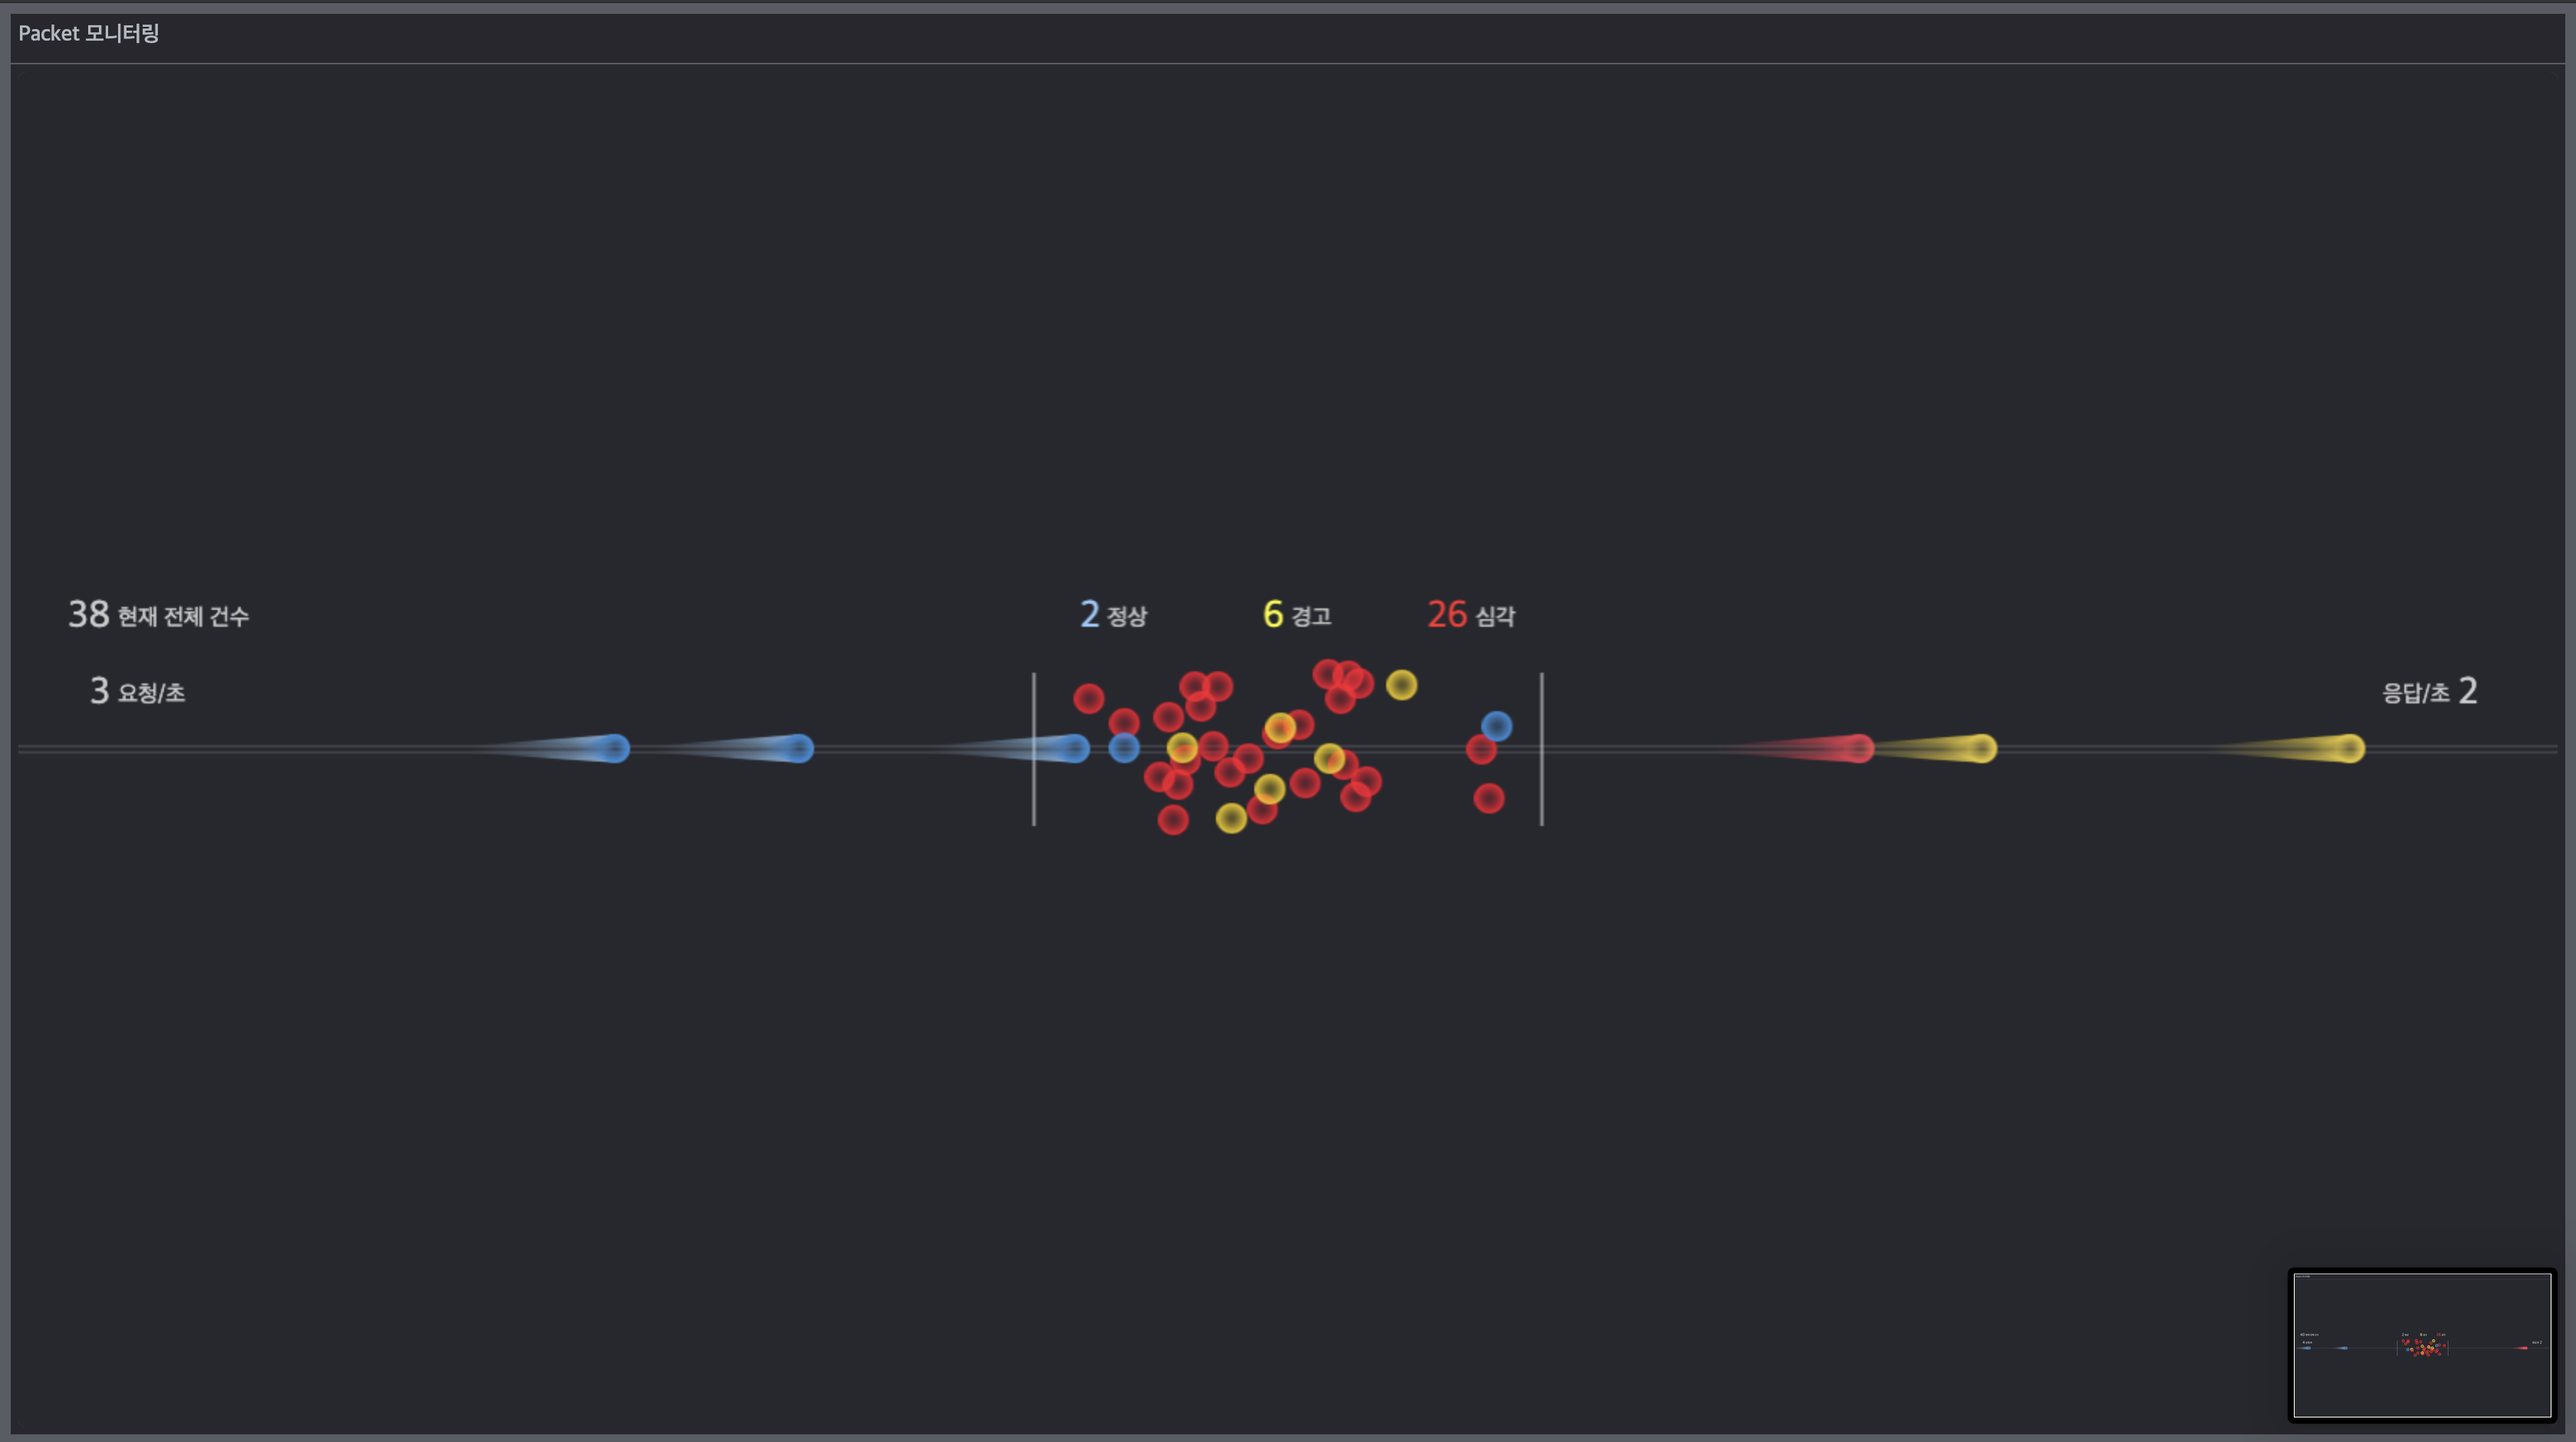
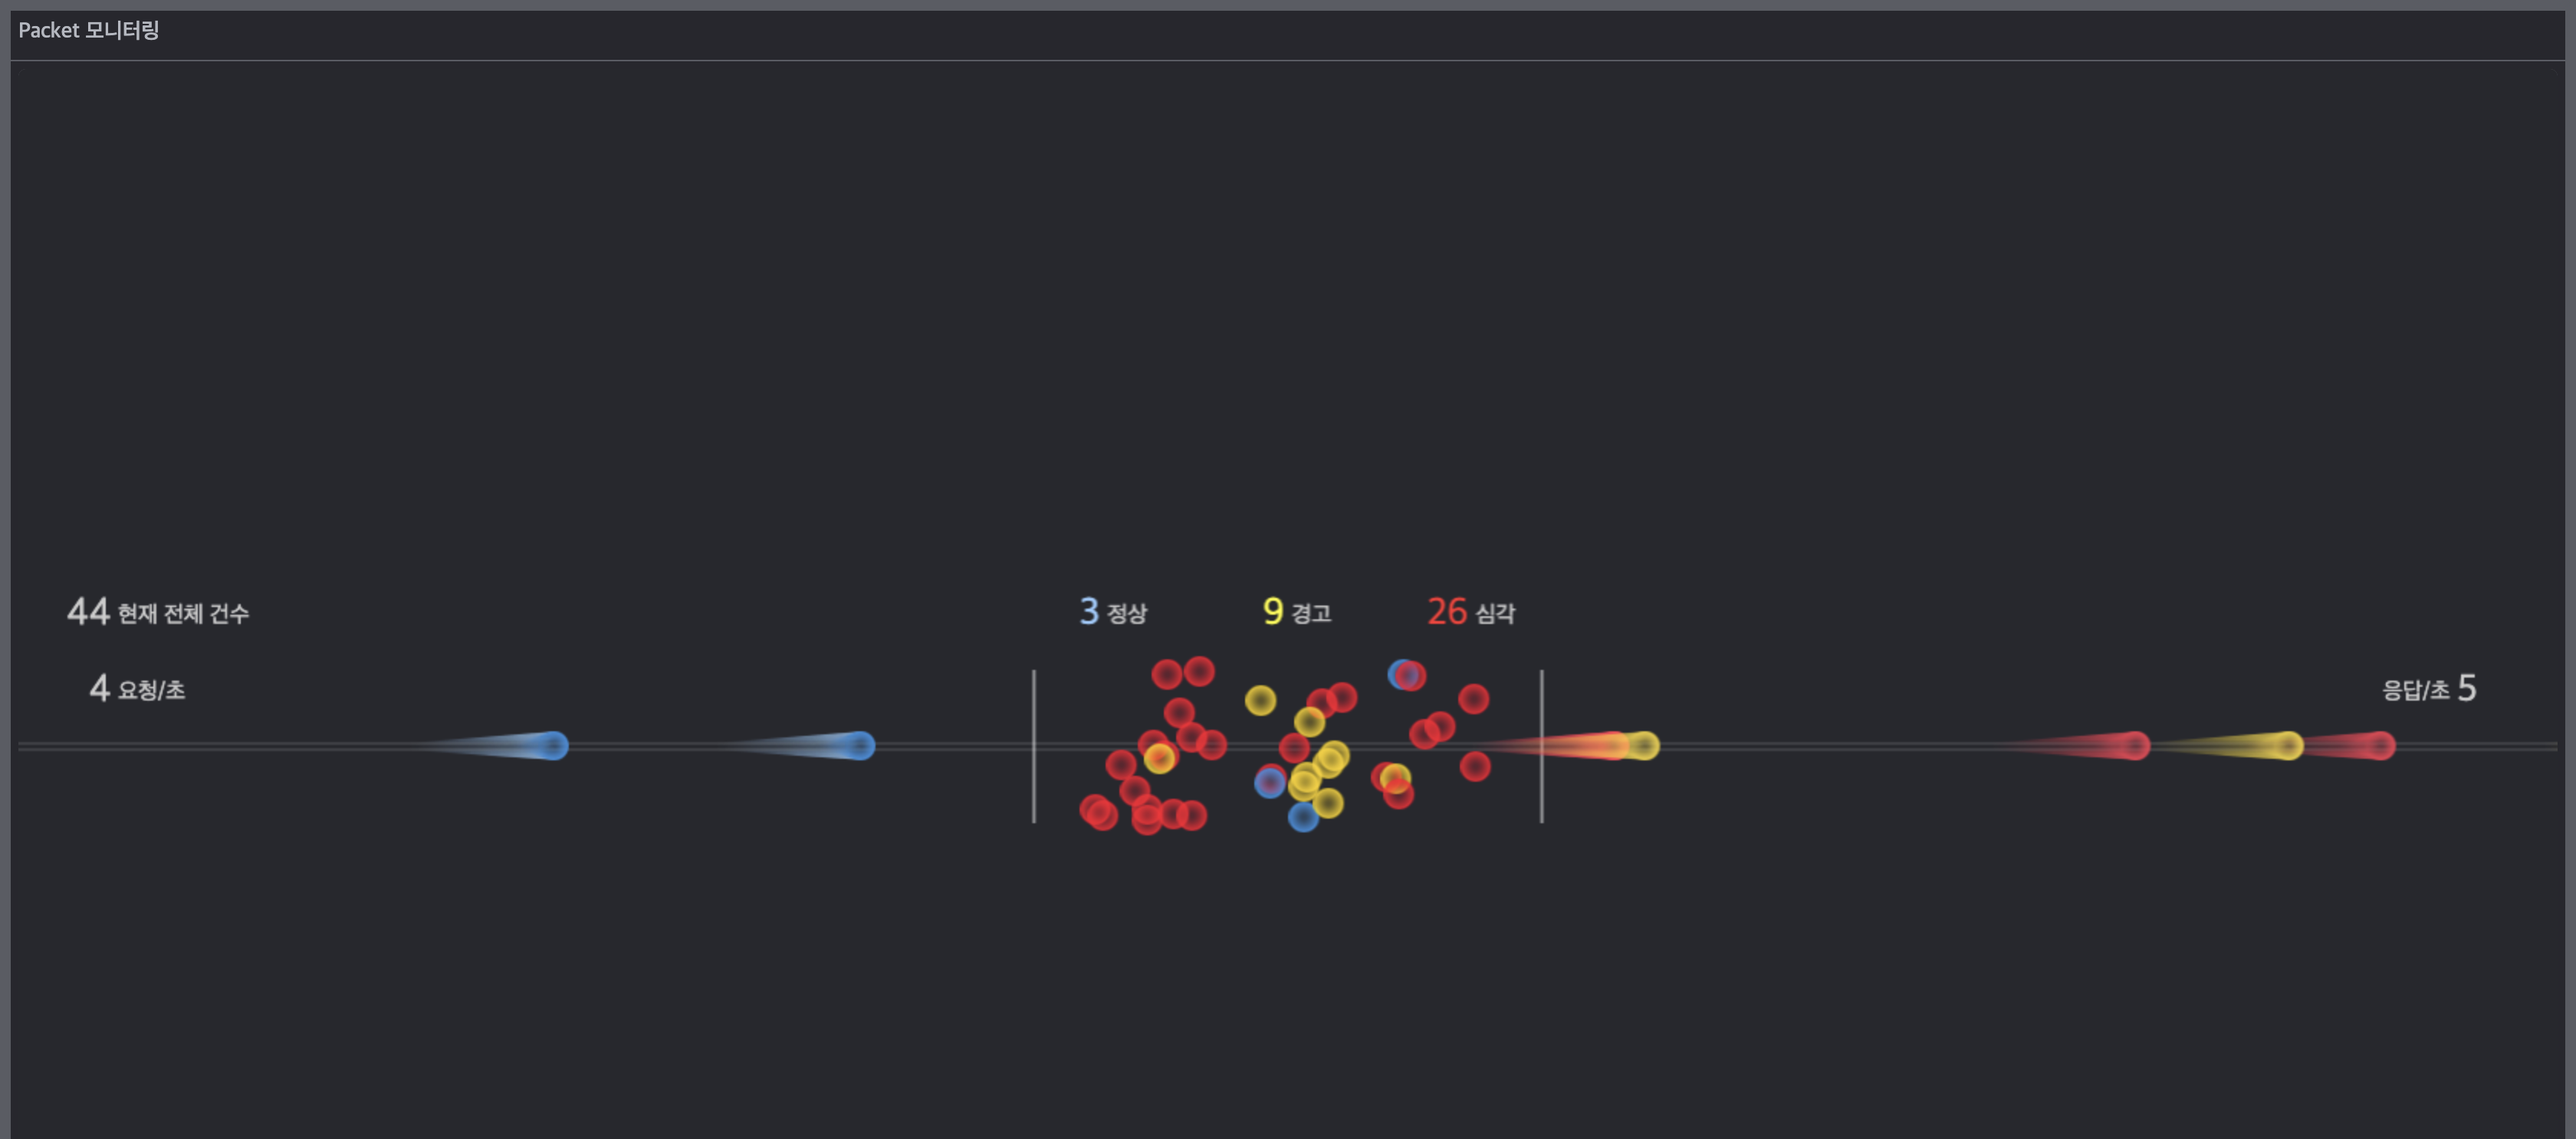
feat: add readme file and change packet view image

diff --git a/README.md b/README.md
@@ -1,0 +1,18 @@
+# __Packet 모니터링 화면__
+## __Description__
+
+- Packet 전송 관련 화면을 Canvas로 구현하고 Webworker 사용 
+- Express 웹서버 프레임워크 기반으로 Socket.io 모듈 사용하여 실시간 Packet 전송
+
+## __Screenshots__
+![packet_view](www/images/packet_view.png)
+
+## __Installation & Execute__
+> ### Package Installation
+    npm install
+> ### Server
+    node server.js
+> ### Client
+www 경로에서 다음 명령어를 수행
+    
+    lite-server
